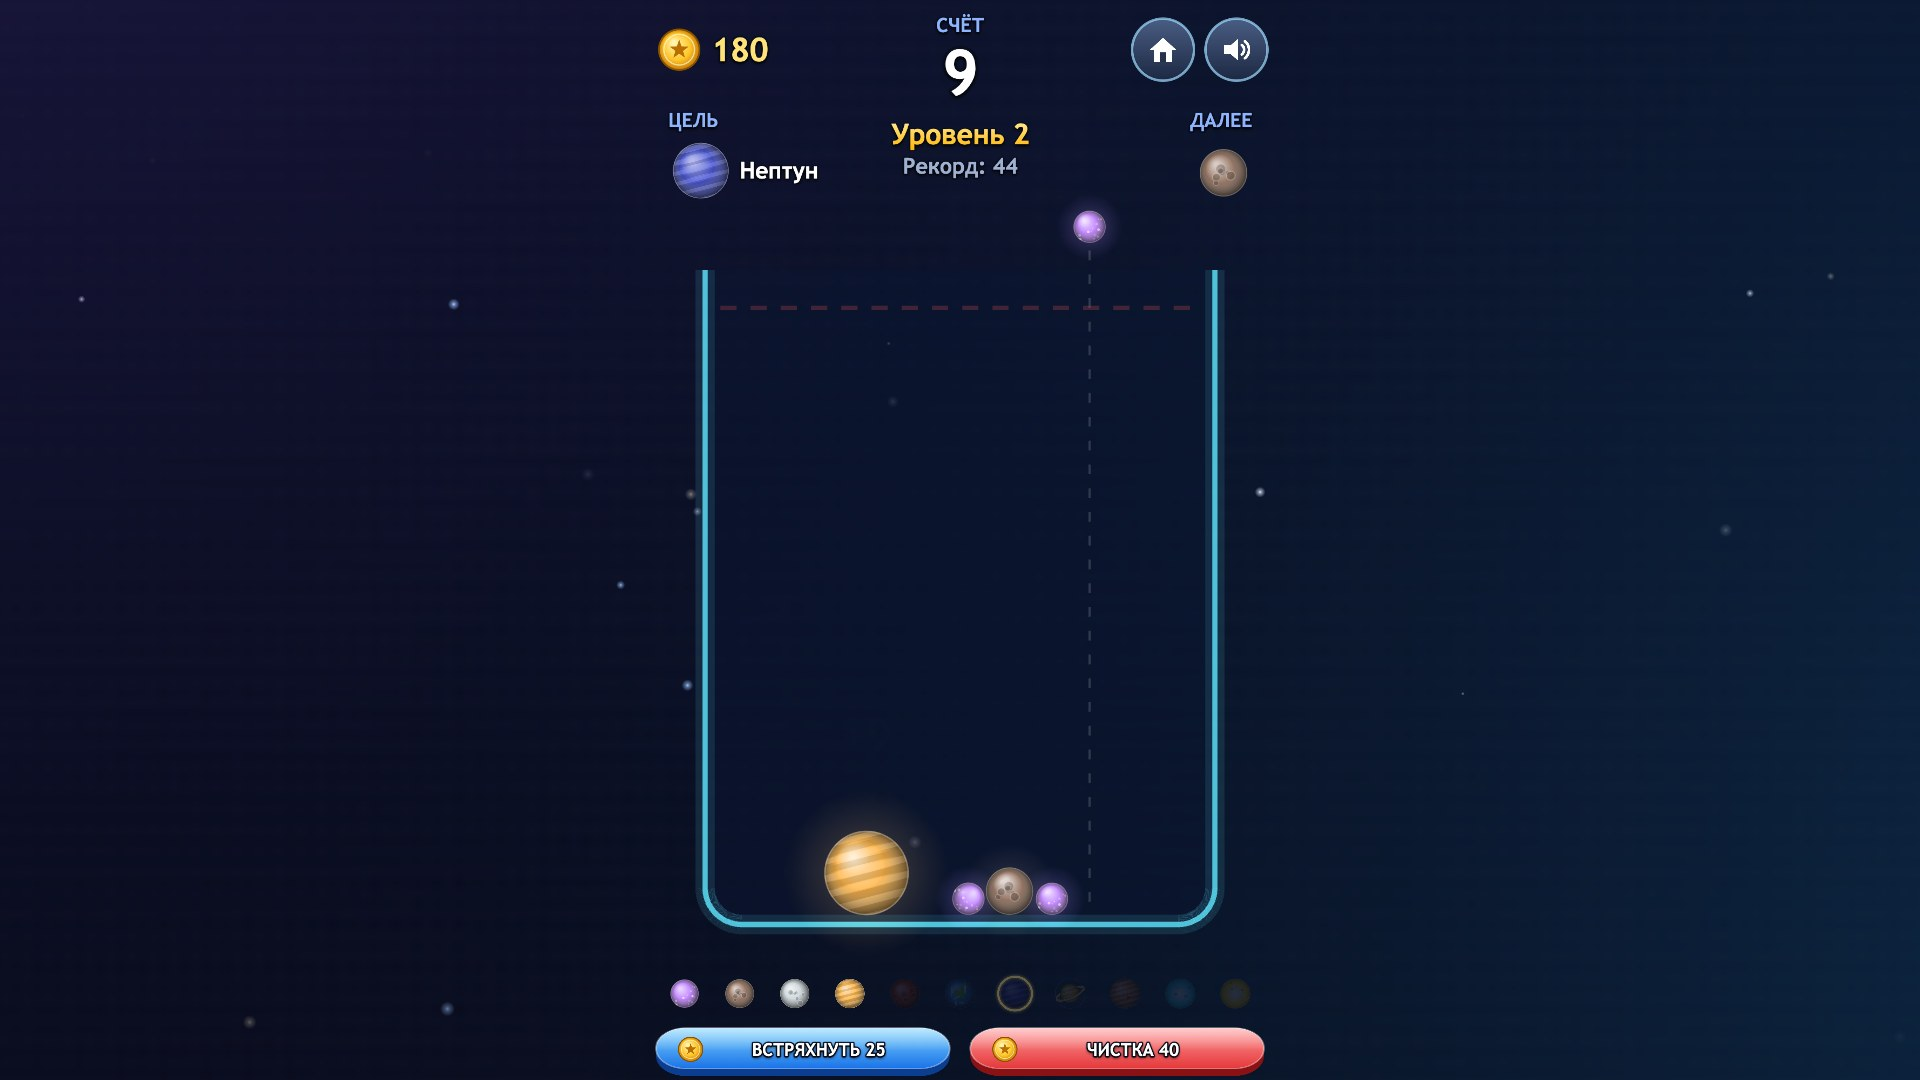
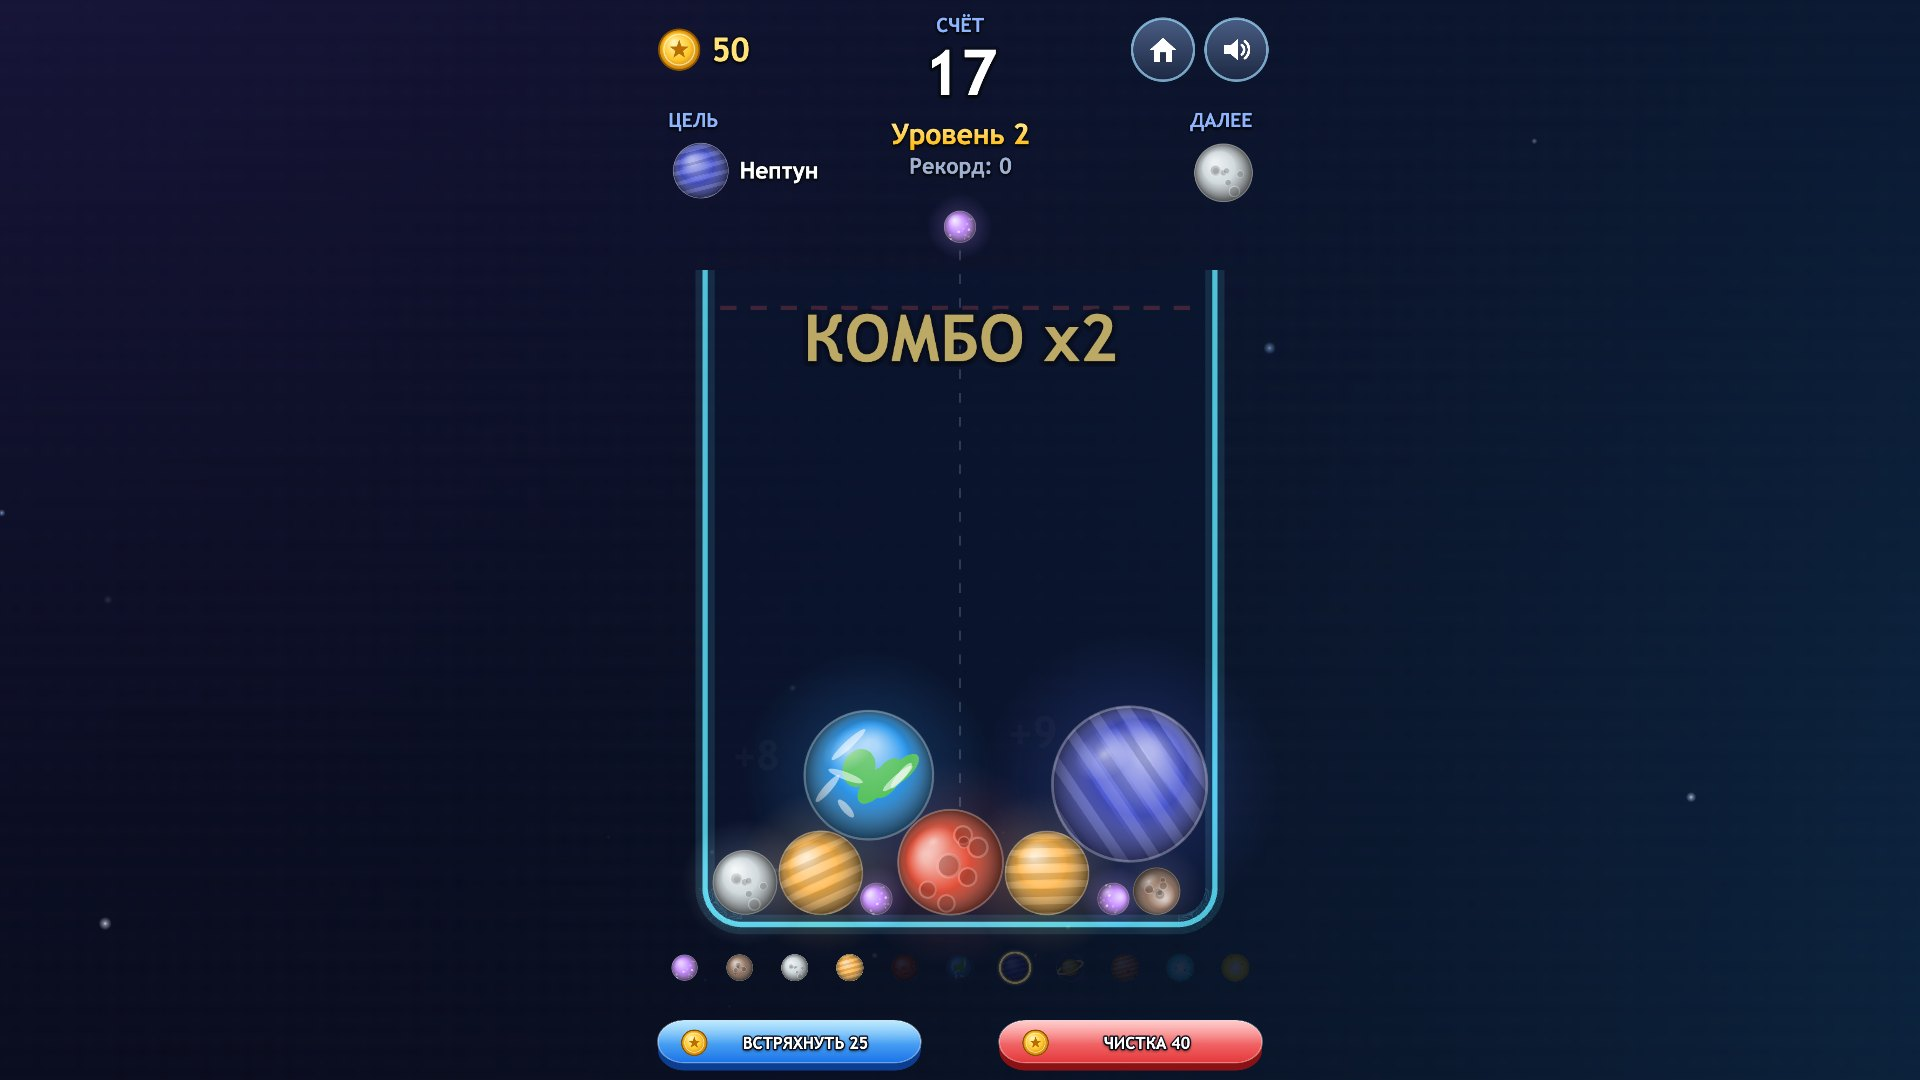
VK Play: развести Встряхнуть/Чистка и обновить скрины.
Кнопки HUD больше не наезжают друг на друга, цепочка планет выше пола банки — чтобы модерация не завернула вёрстку.

diff --git a/src/scenes/PlayScene.js b/src/scenes/PlayScene.js
@@ -1,10 +1,10 @@
-import { CONFIG, DESIGN, TIERS, t, tierName, targetTierForLevel } from '../config.js?v=20261122f';
-import { YandexSDK } from '../yandexSDK.js?v=20261122f';
-import { Sfx } from '../audio.js?v=20261122f';
+import { CONFIG, DESIGN, TIERS, t, tierName, targetTierForLevel } from '../config.js?v=20261122g';
+import { YandexSDK } from '../yandexSDK.js?v=20261122g';
+import { Sfx } from '../audio.js?v=20261122g';
 import {
   fitCamera, addBackground, makeText, gradientText, makeButton, makeRoundButton,
   burst, shock, floatText, toast
-} from '../ui.js?v=20261122f';
+} from '../ui.js?v=20261122g';
 
 const J = CONFIG.jar;
 const B = CONFIG.balance;
@@ -139,25 +139,23 @@ export class PlayScene extends Phaser.Scene {
     makeText(this, W - 28, 112, t('next'), 18, '#8fb4ff', { ox: 1 }).setDepth(10);
     this.nextImg = this.add.image(W - 56, 160, 'p0').setDepth(10);
 
-    // цепочка между дном банки и кнопками — без наезда на пол и на «Встряхнуть»/«Чистка»
+    // цепочка над кнопками; сами кнопки уже, с широким зазором по центру
     this.chain = [];
     for (let i = 0; i < TIERS.length; i++) {
-      const img = this.add.image(45 + i * 51, 920, 'p' + i).setDisplaySize(28, 28).setDepth(10);
+      const img = this.add.image(45 + i * 51, 896, 'p' + i).setDisplaySize(26, 26).setDepth(10);
       img.setTint(0x3a3f55).setAlpha(0.55);
       this.chain.push(img);
     }
     this.markReached(0, true);
-    const tr = this.add.image(45 + this.target * 51, 920, 'ring').setTint(0xffd54f)
-      .setBlendMode(Phaser.BlendModes.ADD).setDisplaySize(40, 40).setDepth(11);
+    const tr = this.add.image(45 + this.target * 51, 896, 'ring').setTint(0xffd54f)
+      .setBlendMode(Phaser.BlendModes.ADD).setDisplaySize(36, 36).setDepth(11);
     this.tweens.add({ targets: tr, alpha: 0.25, duration: 650, yoyo: true, repeat: -1 });
 
-    // две колонки с зазором: иначе длинные RU/TR подписи с иконкой монеты наползают друг на друга
-    const side = 16, gap = 14;
-    const bw = (W - side * 2 - gap) / 2;
-    this.shakeBtn = makeButton(this, side + bw / 2, 974, `${t('shake')} ${B.shakeCost}`, 'blue', () => this.useShake(),
-      { w: bw, h: 48, size: 16, icon: 'coin' }).setDepth(10);
-    this.purgeBtn = makeButton(this, W - side - bw / 2, 974, `${t('purge')} ${B.purgeCost}`, 'red', () => this.usePurge(),
-      { w: bw, h: 48, size: 16, icon: 'coin' }).setDepth(10);
+    const bw = 248, side = 18;
+    this.shakeBtn = makeButton(this, side + bw / 2, 968, `${t('shake')} ${B.shakeCost}`, 'blue', () => this.useShake(),
+      { w: bw, h: 50, size: 15, icon: 'coin' }).setDepth(10);
+    this.purgeBtn = makeButton(this, W - side - bw / 2, 968, `${t('purge')} ${B.purgeCost}`, 'red', () => this.usePurge(),
+      { w: bw, h: 50, size: 15, icon: 'coin' }).setDepth(10);
   }
 
   // ------------------------------------------------------------------ вспомогательное
@@ -449,7 +447,7 @@ export class PlayScene extends Phaser.Scene {
   // ------------------------------------------------------------------ панели
   buildPanel(w, h, cy) {
     const c = this.add.container(0, 0).setDepth(100);
-    const dim = this.add.rectangle(DESIGN.W / 2, DESIGN.H / 2, 5000, 5000, 0x050810, 0.74).setInteractive();
+    const dim = this.add.rectangle(DESIGN.W / 2, DESIGN.H / 2, 5000, 5000, 0x050810, 0.82).setInteractive();
     const img = this.add.image(DESIGN.W / 2, cy, 'panel').setDisplaySize(w, h);
     c.add([dim, img]);
     c.setAlpha(0);
@@ -463,6 +461,7 @@ export class PlayScene extends Phaser.Scene {
   }
 
   showRevive() {
+    if (this.hint) { this.hint.destroy(); this.hint = null; }
     const W = DESIGN.W;
     const c = this.buildPanel(520, 560, 500);
     const title = makeText(this, W / 2, 278, t('reviveTitle'), 32, '#ff6b6b', { sw: 7, wrap: 440 });

diff --git a/src/main.js b/src/main.js
@@ -1,8 +1,8 @@
-import { createGameConfig } from './config.js?v=20261122f';
-import { BootScene } from './scenes/BootScene.js?v=20261122f';
-import { MenuScene } from './scenes/MenuScene.js?v=20261122f';
-import { PlayScene } from './scenes/PlayScene.js?v=20261122f';
-import { ShopScene } from './scenes/ShopScene.js?v=20261122f';
+import { createGameConfig } from './config.js?v=20261122g';
+import { BootScene } from './scenes/BootScene.js?v=20261122g';
+import { MenuScene } from './scenes/MenuScene.js?v=20261122g';
+import { PlayScene } from './scenes/PlayScene.js?v=20261122g';
+import { ShopScene } from './scenes/ShopScene.js?v=20261122g';
 
 const game = new Phaser.Game(createGameConfig([BootScene, MenuScene, PlayScene, ShopScene]));
 if (location.search.includes('debug')) window.__game = game;

diff --git a/src/scenes/ShopScene.js b/src/scenes/ShopScene.js
@@ -1,7 +1,7 @@
-import { CONFIG, DESIGN, t } from '../config.js?v=20261122f';
-import { YandexSDK } from '../yandexSDK.js?v=20261122f';
-import { Sfx } from '../audio.js?v=20261122f';
-import { fitCamera, makeText, gradientText, makeButton, toast, floatText } from '../ui.js?v=20261122f';
+import { CONFIG, DESIGN, t } from '../config.js?v=20261122g';
+import { YandexSDK } from '../yandexSDK.js?v=20261122g';
+import { Sfx } from '../audio.js?v=20261122g';
+import { fitCamera, makeText, gradientText, makeButton, toast, floatText } from '../ui.js?v=20261122g';
 
 // Магазин внутриигровых покупок. Открывается поверх меню (scene.launch), меню на паузе.
 export class ShopScene extends Phaser.Scene {

diff --git a/src/scenes/MenuScene.js b/src/scenes/MenuScene.js
@@ -1,7 +1,7 @@
-import { CONFIG, DESIGN, t, nextLang, langFlag } from '../config.js?v=20261122f';
-import { YandexSDK } from '../yandexSDK.js?v=20261122f';
-import { Sfx } from '../audio.js?v=20261122f';
-import { fitCamera, addBackground, makeText, gradientText, makeButton, makeRoundButton, floatText, toast } from '../ui.js?v=20261122f';
+import { CONFIG, DESIGN, t, nextLang, langFlag } from '../config.js?v=20261122g';
+import { YandexSDK } from '../yandexSDK.js?v=20261122g';
+import { Sfx } from '../audio.js?v=20261122g';
+import { fitCamera, addBackground, makeText, gradientText, makeButton, makeRoundButton, floatText, toast } from '../ui.js?v=20261122g';
 
 export class MenuScene extends Phaser.Scene {
   constructor() { super('MenuScene'); }

diff --git a/src/yandexSDK.js b/src/yandexSDK.js
@@ -1,11 +1,11 @@
 // Платформенный слой VK Play: сохранения, покупки, без рекламы.
 // Имя файла оставлено как в яндекс-версии, чтобы сцены импортировали тот же путь.
 
-import { CONFIG, LANGS, setLang } from './config.js?v=20261122f';
+import { CONFIG, LANGS, setLang } from './config.js?v=20261122g';
 import {
   currencyOf, ensureUser, handshake, inIframe, isVkPlay, loadCloudSave, looksLikeVkPlay,
   pay, userUid, waitForIframeApi, waitForUid, writeCloudSave, VKPLAY_PRICES, VKPLAY_SAVE_URL
-} from './vkplay.js?v=20261122f';
+} from './vkplay.js?v=20261122g';
 
 export const defaultData = () => ({
   v: 1,

diff --git a/src/scenes/BootScene.js b/src/scenes/BootScene.js
@@ -1,7 +1,7 @@
-import { DESIGN, t } from '../config.js?v=20261122f';
-import { YandexSDK } from '../yandexSDK.js?v=20261122f';
-import { Sfx } from '../audio.js?v=20261122f';
-import { fitCamera, makeText, buildTextureJobs, gradientText } from '../ui.js?v=20261122f';
+import { DESIGN, t } from '../config.js?v=20261122g';
+import { YandexSDK } from '../yandexSDK.js?v=20261122g';
+import { Sfx } from '../audio.js?v=20261122g';
+import { fitCamera, makeText, buildTextureJobs, gradientText } from '../ui.js?v=20261122g';
 
 const nextFrame = () => new Promise((r) => setTimeout(r, 0));
 

diff --git a/src/vkplay.js b/src/vkplay.js
@@ -54,7 +54,7 @@ export async function loadIframeApiScript() {
   if (typeof window.iframeApi === 'function') return true;
   return new Promise((resolve) => {
     const s = document.createElement('script');
-    s.src = new URL('./lib/iframe-api.js', import.meta.url).href.split('?')[0] + '?v=20261122f';
+    s.src = new URL('./lib/iframe-api.js', import.meta.url).href.split('?')[0] + '?v=20261122g';
     s.onload = () => resolve(typeof window.iframeApi === 'function');
     s.onerror = () => resolve(false);
     document.head.appendChild(s);

diff --git a/src/ui.js b/src/ui.js
@@ -1,7 +1,7 @@
 // Общие UI-хелперы: процедурные текстуры, текст, кнопки, фон, частицы, адаптивная камера.
 
-import { DESIGN, TIERS } from './config.js?v=20261122f';
-import { Sfx } from './audio.js?v=20261122f';
+import { DESIGN, TIERS } from './config.js?v=20261122g';
+import { Sfx } from './audio.js?v=20261122g';
 
 export const FONT = '"Trebuchet MS", "Segoe UI", Arial, sans-serif';
 

diff --git a/index.html b/index.html
@@ -17,6 +17,6 @@
   <div id="game-container"></div>
   <!-- VK Play / GitHub Pages: без Yandex SDK, без рекламы, оплата через iframeApi. -->
   <script src="https://cdn.jsdelivr.net/npm/phaser@3.80.1/dist/phaser.min.js"></script>
-  <script type="module" src="src/main.js?v=20261122f"></script>
+  <script type="module" src="src/main.js?v=20261122g"></script>
 </body>
 </html>
